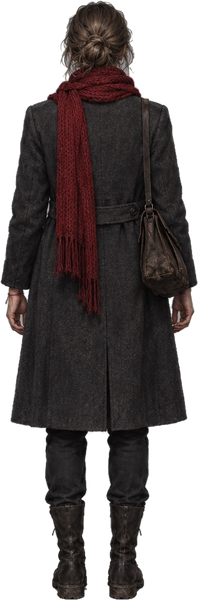
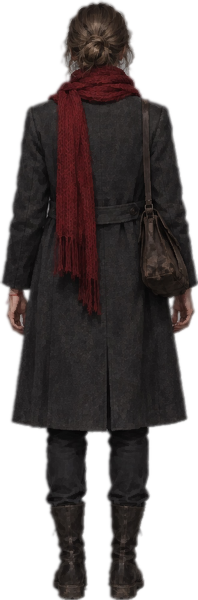
Anna blends into the paintings: painterly sprite pass with defringed soft edges, light wrap from the scene, side light/shadow sampled from the background, more air outdoors, no rim outline; compact dialog box
Claude-Session: https://claude.ai/code/session_01CtZJh69VWZfWKL7tGv8hTq

diff --git a/zavetye/index.html b/zavetye/index.html
@@ -97,16 +97,16 @@ button{font:inherit;color:inherit;cursor:pointer;-webkit-tap-highlight-color:tra
 .hint.off{opacity:0;pointer-events:none}
 
 /* ---------- диалог ---------- */
-.dlg{position:fixed;left:50%;bottom:calc(16px + env(safe-area-inset-bottom,0px));z-index:20;transform:translateX(-50%);width:min(900px,calc(100% - 24px));max-height:min(56vh,540px);display:flex;flex-direction:column;
+.dlg{position:fixed;left:50%;bottom:calc(16px + env(safe-area-inset-bottom,0px));z-index:20;transform:translateX(-50%);width:min(760px,calc(100% - 24px));max-height:min(40vh,400px);display:flex;flex-direction:column;
   background:linear-gradient(180deg,rgba(18,16,20,.88),rgba(10,10,13,.94));border:1px solid var(--line);box-shadow:0 20px 60px rgba(0,0,0,.6);backdrop-filter:blur(10px);-webkit-backdrop-filter:blur(10px);animation:rise .35s ease-out}
 @keyframes rise{from{opacity:0;transform:translate(-50%,14px)}}
 .dlg::before{content:"";display:block;height:8px;margin:0 24px;background:var(--stitch) repeat-x 0 50%/16px 8px;opacity:.8}
 .dlg-head{display:flex;align-items:baseline;gap:12px;padding:10px 26px 0}
-.dlg-who{flex:1;min-width:0;font:italic 600 21px/1.15 var(--display);color:var(--gold);letter-spacing:.01em;overflow:hidden;text-overflow:ellipsis;white-space:nowrap}
+.dlg-who{flex:1;min-width:0;font:italic 600 19px/1.15 var(--display);color:var(--gold);letter-spacing:.01em;overflow:hidden;text-overflow:ellipsis;white-space:nowrap}
 .dlg-pg{margin-left:auto;font:700 12px var(--sc);letter-spacing:.14em;color:var(--dim)}
-.dlg-body{overflow:auto;padding:6px 26px 14px;cursor:pointer}
-.dlg-text p{margin:0 0 .55em;font-size:19.5px;line-height:1.55;color:var(--text);animation:fin .45s ease-out}
-.dlg-text > p:first-child:not(.dl)::first-letter{float:left;margin:6px 8px 0 0;font:500 3.2em/.75 var(--display);color:var(--cin-2)}
+.dlg-body{overflow:auto;padding:4px 26px 10px;cursor:pointer;flex:1 1 auto;min-height:3.2em}
+.dlg-text p{margin:0 0 .45em;font-size:17.5px;line-height:1.5;color:var(--text);animation:fin .45s ease-out}
+.dlg-text > p:first-child:not(.dl)::first-letter{float:left;margin:6px 8px 0 0;font:500 2.6em/.75 var(--display);color:var(--cin-2)}
 @keyframes fin{from{opacity:0;transform:translateY(4px)}}
 .dlg-text p.dl{padding-left:14px;border-left:2px solid rgba(179,54,42,.8)}
 .dlg-text ul{margin:0 0 .6em;padding-left:1.3em;font-size:18px}
@@ -126,8 +126,8 @@ button{font:inherit;color:inherit;cursor:pointer;-webkit-tap-highlight-color:tra
 .note .trb,.nb .trb{color:var(--soft)}
 .more{align-self:flex-end;margin:0 22px 10px 0;font:700 12px var(--sc);letter-spacing:.16em;color:var(--gold);animation:blink 1.6s ease-in-out infinite}
 @keyframes blink{50%{opacity:.35}}
-.dlg-ch{display:flex;flex-direction:column;gap:6px;padding:0 18px 16px}
-.ch{display:flex;align-items:baseline;gap:12px;width:100%;text-align:left;padding:10px 14px;border:1px solid var(--line);background:rgba(255,255,255,.03);color:var(--text);font-size:17.5px;line-height:1.35;animation:fin .35s ease-out both;transition:background .2s,border-color .2s}
+.dlg-ch{display:grid;grid-template-columns:repeat(auto-fit,minmax(300px,1fr));gap:5px;padding:2px 18px 12px;overflow:auto;min-height:0;flex:0 1 auto}
+.ch{display:flex;align-items:baseline;gap:12px;width:100%;text-align:left;padding:7px 12px;border:1px solid var(--line);background:rgba(255,255,255,.03);color:var(--text);font-size:16px;line-height:1.3;animation:fin .35s ease-out both;transition:background .2s,border-color .2s}
 .ch:hover,.ch:focus-visible{border-color:var(--cin-2);background:rgba(179,54,42,.2);outline:none}
 .ch .n{flex:none;display:inline-grid;place-items:center;width:20px;height:20px;border:1px solid var(--line-2);transform:rotate(45deg);font:700 11px var(--body);color:var(--dim)}
 .ch .n b{transform:rotate(-45deg)}
@@ -268,12 +268,14 @@ button{font:inherit;color:inherit;cursor:pointer;-webkit-tap-highlight-color:tra
   .goal{font-size:14px;max-width:calc(100vw - 180px)}
   .hb .lbl{display:none}
   .hb{padding:0;width:40px;justify-content:center}
-  .dlg-text p{font-size:17.5px}
-  .dlg-who{font-size:18px}
+  .dlg-text p{font-size:16px}
+  .dlg{max-height:46vh}
+  .dlg-ch{grid-template-columns:1fr;padding:2px 12px 10px}
+  .dlg-who{font-size:16.5px}
   .dlg-head{padding:8px 18px 0}.dlg-body{padding:6px 18px 12px}
-  .toast{top:auto;bottom:calc(min(56vh,540px) + 30px + env(safe-area-inset-bottom,0px));font-size:14.5px}
-  .ch{font-size:16.5px;padding:9px 12px}
-  .portrait{height:56vh;left:0}.portrait.right{right:0}
+  .toast{top:auto;bottom:calc(46vh + 30px + env(safe-area-inset-bottom,0px));font-size:14.5px}
+  .ch{font-size:15px;padding:6px 10px}
+  .portrait{height:44vh;left:0}.portrait.right{right:0}
   .portrait.on.listen{opacity:0}
   .nb{grid-template-columns:1fr;grid-template-rows:auto 1fr;background-image:linear-gradient(90deg,transparent 40px,rgba(179,54,42,.5) 40px,rgba(179,54,42,.5) 42px,transparent 42px),linear-gradient(var(--grid) 1px,transparent 1px),linear-gradient(90deg,var(--grid) 1px,transparent 1px)}
   .nb::before{width:100%;height:100px;bottom:auto}
@@ -2301,7 +2303,7 @@ function drawArtFrame(v, camX, anna, P, ph){
     // 1) яркость как у фона вокруг (герой не светится ярче сцены), 2) немного цвета самой сцены
     const SC = SCENE_LIGHT, f = SC.f;
     if(f < .99){ L.globalCompositeOperation = 'multiply'; const q = Math.round(255 * f); L.fillStyle = `rgb(${q},${q},${q})`; L.fillRect(X0, Y0, BW, BH); }
-    L.globalCompositeOperation = 'color'; L.fillStyle = `rgba(${SC.r},${SC.g},${SC.b},.16)`; L.fillRect(X0, Y0, BW, BH);
+    L.globalCompositeOperation = 'color'; L.fillStyle = `rgba(${SC.r},${SC.g},${SC.b},.22)`; L.fillRect(X0, Y0, BW, BH);
     L.globalCompositeOperation = 'soft-light'; L.fillStyle = `rgba(${SC.r},${SC.g},${SC.b},.3)`; L.fillRect(X0, Y0, BW, BH);
     if(a.bright && anna){ // светлая квартира: свет из окна справа — чуть больше контраста, тёплый тон, теневая сторона слева
       L.globalCompositeOperation = 'overlay'; L.globalAlpha = .3; L.drawImage(mk, X0, Y0, BW, BH, X0, Y0, BW, BH); L.globalAlpha = 1;
@@ -2309,10 +2311,18 @@ function drawArtFrame(v, camX, anna, P, ph){
       const ax = (rx(anna.x) - camX) * s, hw = 46 * k * s, gr = L.createLinearGradient(ax - hw, 0, ax + hw, 0);
       gr.addColorStop(0, 'rgba(70,50,40,.55)'); gr.addColorStop(.6, 'rgba(255,255,255,0)'); gr.addColorStop(1, 'rgba(255,255,255,0)');
       L.fillStyle = gr; L.fillRect(X0, Y0, BW, BH); }
-    if(!strip.indoor && !a.bright){ L.globalCompositeOperation = 'source-over'; L.fillStyle = `rgba(${SC.r},${SC.g},${SC.b},.13)`; L.fillRect(X0, Y0, BW, BH); } // воздух между зрителем и героем
+    if(!strip.indoor && !a.bright){ L.globalCompositeOperation = 'source-over'; L.fillStyle = `rgba(${SC.r},${SC.g},${SC.b},.18)`; L.fillRect(X0, Y0, BW, BH); } // воздух между зрителем и героем
+    if(anna && !window.NODIR){ // свет сцены сбоку: со стороны печи/окна/заката — тёплый отсвет, с другой — тень
+      const sd = SC.side, D = sd.lR - sd.lL, st2 = Math.min(1, Math.abs(D) * 4), lit = D > 0 ? 1 : -1;
+      if(st2 > .05){ const ax = (rx(anna.x) - camX) * s, hw = 34 * k * s, c = lit > 0 ? sd.cR : sd.cL, m = Math.max(...c, 1), lc2 = c.map(v => Math.round(v / m * 255)).join(',');
+        const gr = L.createLinearGradient(ax - 3 * hw * lit, 0, ax + 3 * hw * lit, 0); // 0 — тёмная сторона, 1 — светлая
+        gr.addColorStop(0, 'rgba(40,36,40,0)'); gr.addColorStop(.3, `rgba(40,36,40,${.45 * st2})`); gr.addColorStop(.5, 'rgba(128,128,128,0)');
+        gr.addColorStop(.62, `rgba(${lc2},${.3 * st2})`); gr.addColorStop(.72, `rgba(${lc2},${.45 * st2})`); gr.addColorStop(1, `rgba(${lc2},0)`);
+        L.globalCompositeOperation = 'soft-light'; L.fillStyle = gr; L.fillRect(X0, Y0, BW, BH); } }
     L.globalCompositeOperation = 'destination-in'; L.drawImage(mk, X0, Y0, BW, BH, X0, Y0, BW, BH);
+    if(!LOWQ.on) lightWrap(L, g.canvas, lc, X0, Y0, BW, BH, s);
     if(tint[1]){ L.globalCompositeOperation = 'source-atop'; const gr = L.createLinearGradient(0, oy, 0, oy + VH * s); gr.addColorStop(0, tint[1]); gr.addColorStop(1, 'rgba(0,0,0,0)'); L.fillStyle = gr; L.fillRect(X0, Y0, BW, BH); }
-    if(tint[2] && !LOWQ.on){ // контровой свет: светлая кромка с той стороны, откуда падает свет
+    if(tint[2] && !LOWQ.on && window.RIM){ // контровой свет: светлая кромка с той стороны, откуда падает свет
       const [col, side] = tint[2], rim = rimLayer(cw, ch), Rm = rim.getContext('2d'), dx = -side * Math.max(1, 1.5 * s);
       Rm.globalCompositeOperation = 'copy'; Rm.drawImage(lc, X0, Y0, BW, BH, X0, Y0, BW, BH);
       Rm.globalCompositeOperation = 'source-in'; Rm.fillStyle = col; Rm.fillRect(X0, Y0, BW, BH);
@@ -2773,7 +2783,7 @@ function drawFx(g, air = false){
 const LOWQ = { on:false, off:false, acc:0, n:0 };
 function qualityTick(dt){ if(dt <= 0 || dt > .25) return; LOWQ.acc += dt; LOWQ.n++; if(LOWQ.n < 90) return; const avg = LOWQ.acc / LOWQ.n; LOWQ.acc = 0; LOWQ.n = 0;
   if(avg > 1 / 38){ if(!LOWQ.on) LOWQ.on = true; else LOWQ.off = true; } }
-const SCENE_LIGHT = { f:1, r:128, g:128, b:128, key:null, n:0, la:0 };
+const SCENE_LIGHT = { f:1, r:128, g:128, b:128, key:null, n:0, la:0, side:{ lL:0, lR:0, cL:[255,255,255], cR:[255,255,255] } };
 function spriteLum(){
   if(SCENE_LIGHT.la) return SCENE_LIGHT.la; const im = IMG.s_anna; if(!im) return .3;
   const c = document.createElement('canvas'); c.width = 40; c.height = 150; const x = c.getContext('2d', { willReadFrequently:true }); x.drawImage(im, 0, 0, 40, 150);
@@ -2783,13 +2793,20 @@ function spriteLum(){
 function sampleScene(g, ax, top, h, key){
   const SL = SCENE_LIGHT; SL.n++;
   if(SL.key === key && SL.n % 12) return;
-  try{
-    const w = Math.max(8, h * 1.6), x0 = Math.max(0, ax - w / 2), y0 = Math.max(0, top), hh = Math.max(8, h);
-    const d = g.getImageData(x0 | 0, y0 | 0, Math.max(1, w | 0), Math.max(1, hh | 0)).data;
-    let r = 0, gg = 0, b = 0, n = 0; for(let i = 0; i < d.length; i += 16){ r += d[i]; gg += d[i + 1]; b += d[i + 2]; n++; }
+  try{ // одно чтение пикселей: середина — яркость и цвет вокруг героини, края — откуда свет (печь или окно могут быть поодаль)
+    const W2 = Math.max(16, h * 1.5), x0 = Math.max(0, ax - W2) | 0, y0 = Math.max(0, top) | 0, sw = Math.max(2, Math.min(g.canvas.width - x0, 2 * W2) | 0), hh = Math.max(8, h) | 0;
+    const d = g.getImageData(x0, y0, sw, hh).data, side = [[0, 0, 0, 0, 0, 0], [0, 0, 0, 0, 0, 0]];
+    let r = 0, gg = 0, b = 0, n = 0;
+    for(let i = 0; i < d.length; i += 16){ const dx = x0 + (i >> 2) % sw - ax, l = (.3 * d[i] + .59 * d[i + 1] + .11 * d[i + 2]) / 255;
+      if(Math.abs(dx) < h * .8){ r += d[i]; gg += d[i + 1]; b += d[i + 2]; n++; }
+      if(Math.abs(dx) > h * .18){ const S2 = side[dx < 0 ? 0 : 1], wt = l * l * l; S2[0] += d[i] * wt; S2[1] += d[i + 1] * wt; S2[2] += d[i + 2] * wt; S2[3] += wt; S2[4] += l * l; S2[5]++; } }
+    if(!n) return;
     r /= n; gg /= n; b /= n; const Lb = (.3 * r + .59 * gg + .11 * b) / 255, La = spriteLum();
     const tf = Math.max(.45, Math.min(1, (Lb * 1.3 + .05) / La)), first = SL.key !== key;
     const a = first ? 1 : .35; SL.f += (tf - SL.f) * a; SL.r += (r - SL.r) * a; SL.g += (gg - SL.g) * a; SL.b += (b - SL.b) * a; SL.key = key;
+    const sd = SL.side;
+    [['L', side[0]], ['R', side[1]]].forEach(([k, S2]) => { const lv = S2[5] ? Math.sqrt(S2[4] / S2[5]) : 0, c = S2[3] ? [S2[0] / S2[3], S2[1] / S2[3], S2[2] / S2[3]] : [255, 255, 255];
+      sd['l' + k] += (lv - sd['l' + k]) * a; sd['c' + k] = sd['c' + k].map((v, j) => v + (c[j] - v) * a); });
   }catch(e){}
 }
 /* камера не заезжает на дорисованные по краям полосы, если экран позволяет */
@@ -2804,6 +2821,21 @@ let _cl = null;
 let _rl = null, _ml = null;
 function maskLayer(w, h){ if(!_ml) _ml = document.createElement('canvas'); if(_ml.width !== w || _ml.height !== h){ _ml.width = w; _ml.height = h; } return _ml; }
 function rimLayer(w, h){ if(!_rl) _rl = document.createElement('canvas'); if(_rl.width !== w || _rl.height !== h){ _rl.width = w; _rl.height = h; } return _rl; }
+/* «обволакивающий свет»: по краю фигуры проступают размытые краски фона — фигура не вырезана, а стоит в сцене */
+let _ws = null, _we = null;
+function lightWrap(L, bg, lc, X0, Y0, BW, BH, s){ // считается в половинном размере: край и так мягкий, а кадр дешевле
+  const k = 8, sw = Math.max(1, Math.ceil(BW / k)), sh = Math.max(1, Math.ceil(BH / k)), hw = Math.max(1, BW >> 1), hh = Math.max(1, BH >> 1);
+  if(!_ws){ _ws = document.createElement('canvas'); _we = document.createElement('canvas'); }
+  if(_ws.width !== sw || _ws.height !== sh){ _ws.width = sw; _ws.height = sh; }
+  if(_we.width !== hw || _we.height !== hh){ _we.width = hw; _we.height = hh; }
+  const S = _ws.getContext('2d'), E = _we.getContext('2d');
+  S.drawImage(bg, X0, Y0, BW, BH, 0, 0, sw, sh);                                   // фон вокруг, уменьшенный = размытый
+  E.globalCompositeOperation = 'copy'; E.drawImage(lc, X0, Y0, BW, BH, 0, 0, hw, hh);
+  E.globalCompositeOperation = 'destination-out'; const d = Math.max(.7, .65 * s);
+  for(const [dx, dy] of [[d, 0], [-d, 0], [0, -d]]) E.drawImage(lc, X0, Y0, BW, BH, dx, dy, hw, hh);
+  E.globalCompositeOperation = 'source-in'; E.drawImage(_ws, 0, 0, sw, sh, 0, 0, hw, hh);
+  L.save(); L.globalCompositeOperation = 'source-atop'; L.globalAlpha = .35; L.drawImage(_we, 0, 0, hw, hh, X0, Y0, BW, BH); L.restore();
+}
 function charLayer(w, h){ if(!_cl) _cl = document.createElement('canvas'); if(_cl.width !== w || _cl.height !== h){ _cl.width = w; _cl.height = h; } return _cl; }
 function charTint(strip, ph){ if(window.NOTINT) return null;
   // [тон сцены (мягкий свет, плотный цвет), отсвет сверху, контровой свет [цвет, сторона]]
